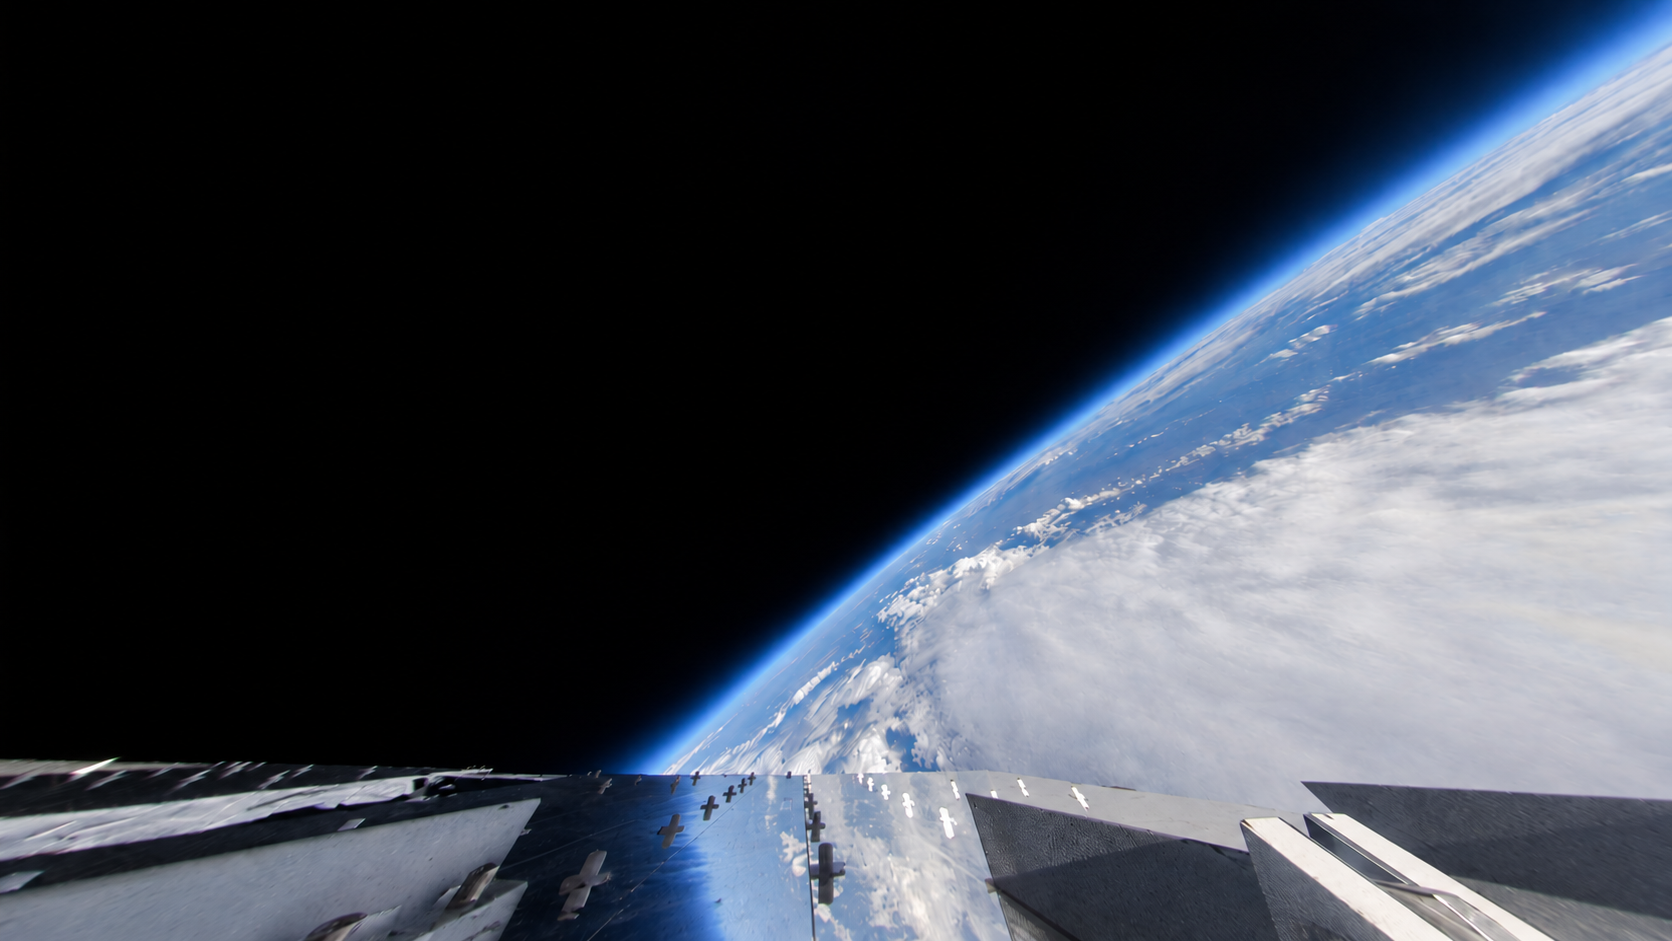
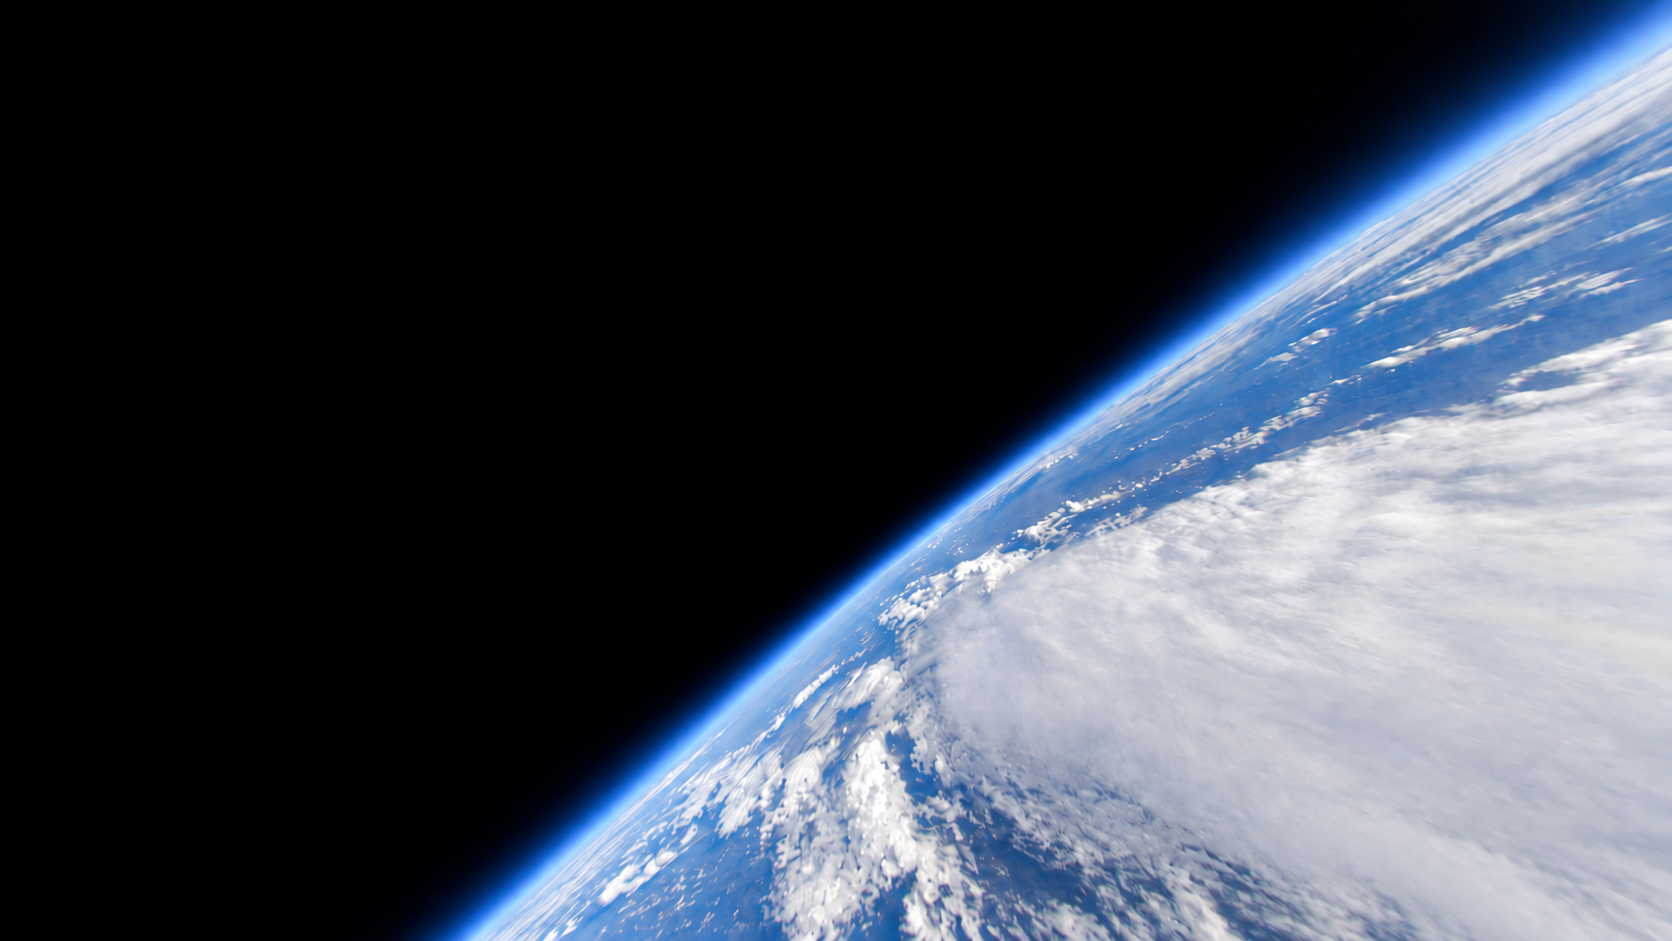
Take the bare-horizon revision of the hero photo
01_revise was replaced with a further retouch: the gondola deck is gone too,
so the frame is one limb running corner to corner with black sky filling the
left half.

The crop anchor moves with it. The previous file kept the deck at the bottom
and wanted "center bottom"; a corner-to-corner diagonal only survives a
symmetric slice, so this one is "center". Checked at 1920 and 390 wide.

Changed region(s): [[0.0, 0.0616, 1.0, 1.0], [0.9641, 0.4623, 1.0, 0.4931]]

diff --git a/.design-sync/NOTES.md b/.design-sync/NOTES.md
@@ -60,12 +60,14 @@
   default. To change the photo: edit SELECTED.txt, rebuild, re-sync.
 - SELECTED.txt names the file **without its extension**; the build resolves `.jpg`/`.jpeg`/`.png`/`.webp`, so a
   retouched PNG can replace a JPG without touching any code.
-- Currently `01_revise` - the user's retouch of `01-excite-balloon-stratosphere` (NASA/GSFC, EXCITE, Kyle Helson):
-  the balloon and the payload arm are painted out of the sky, leaving the diagonal horizon and the gondola deck.
-  Its `credits.json` entry sets `"position": "center bottom"` (the 2.28:1 band can hold either the top-right horizon
-  or the deck, not both - anchoring at the bottom keeps the deck and throws away only empty black sky) and
-  `"note": "retouched"`, which the build appends to the footer credit so an edited frame is never passed off as
-  NASA's own. Any entry can carry either field; `Hero` also takes `imagePosition` directly.
+- Currently `01_revise` - the user's retouch of `01-excite-balloon-stratosphere` (NASA/GSFC, EXCITE, Kyle Helson),
+  painted down to a bare horizon: balloon, payload arm and gondola deck all gone, so the frame is one diagonal limb
+  from bottom-left to top-right with black sky filling the left half. Its `credits.json` entry sets
+  `"position": "center"` - the diagonal runs corner to corner, so a symmetric slice of the 2.28:1 band is the only
+  crop that keeps the whole line - and `"note": "retouched"`, which the build appends to the footer credit so an
+  edited frame is never passed off as NASA's own. Any entry can carry either field; `Hero` also takes
+  `imagePosition` directly. (An earlier revision kept the deck and wanted `"center bottom"`; re-check the anchor
+  whenever the file is replaced, because the right answer follows the composition.)
 - Hero encoding: native width (no downscale), WebP quality 90. Quality 72 banded visibly on the dark sky gradient.
 - **Resolution ceiling**: `01_revise` is 1672px wide - fine to ~1700px, upscaled 1.15x at 1920 and 1.5x at 2560, which
   is mostly invisible on this frame because the sky is a smooth gradient and only the deck carries fine detail. If a

diff --git a/static/hero/CREDITS.md b/static/hero/CREDITS.md
@@ -10,8 +10,8 @@ rebuild (`cd design-system && npm run build`). `.jpg`, `.jpeg`, `.png` and `.web
 actually uses.
 
 ## 01_revise — currently on the homepage
-- Earth’s curvature from 130,000 ft, shot from the EXCITE balloon; retouched to clear the balloon
-  and the payload arm out of the sky, leaving the horizon and the gondola deck
+- Earth’s curvature from 130,000 ft, shot from the EXCITE balloon; retouched down to a bare
+  horizon — the balloon, the payload arm and the gondola deck are all cleared away
 - Credit: NASA/GSFC (EXCITE, Kyle Helson), public domain; retouched
 - NASA ID: `GSFC2024EXCITEsViewSpace0001` — 1672×941 PNG, retouched from 01 below
 
